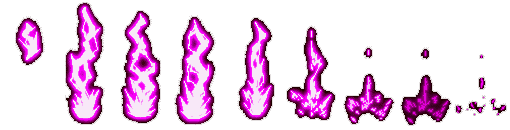
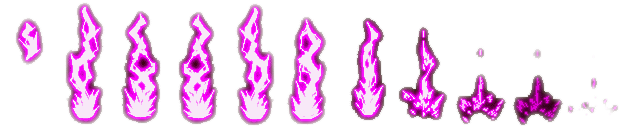
Amélioration du système de tâches de sang et ajout de tâches pour les dommages reçu par le joueur

diff --git a/js/Tache.js b/js/Tache.js
@@ -17,22 +17,39 @@ function Tache(parentObj)
 	/**
 	 * Fonction qui ajoute une tache dans la liste
 	 **/
-	this.add = function(x, y) {
+	this.add = function(target) {
 
-		var spriteNames = ['img/blood', 'img/blood2'],
-			chosenSprite = spriteNames.pickup(),
+		var spriteNames = [];
+
+		if(target instanceof Player) {
+			spriteNames = ['img/blood-player', 'img/blood-player2'];
+		} else {
+			spriteNames = ['img/blood', 'img/blood2'];
+		}
+
+		var chosenSprite = spriteNames.pickup(),
 			conf = TacheConf[chosenSprite],
 			sprite;
 
 		sprite = IM.getInstance(chosenSprite);
 		sprite.animation = new IIG.Animation(conf.animation);
 
+		var x = target.x;
+		var y = target.y;
+		if(chosenSprite === 'img/blood2') {
+			x -= sprite.animation.sWidth/2;
+			y -= sprite.animation.sHeight/2;
+		} else if(target instanceof Player) {
+			x += target.w/2;
+		}
+
 		this.taches.push({
 			sprite : sprite,
 			x : x,
 			y : y,
 			w : conf.width,
-			h : conf.height
+			h : conf.height,
+			tar : target
 		});
 
 	};
@@ -44,6 +61,11 @@ function Tache(parentObj)
 
 		for (var i = 0, c = this.taches.length; i < c; i++) {
 			var t = this.taches[i];
+
+			if(typeof t.tar !== "undefined" && t.tar instanceof Player) {
+				t.x = t.tar.x + t.tar.w /2;
+				t.y = t.tar.y;
+			}
 
 			if (t.sprite.animation.sx >= t.sprite.width - t.sprite.animation.sWidth)
 				if (this.kill( i ))

diff --git a/js/Player.js b/js/Player.js
@@ -146,9 +146,13 @@ function Player(parentObj)
 	this.damage = function() {
 		if(--this.life <= 0) {
 			// Remplacement du sprite player par le sprite player_killed
-			this.sprite = this.parentObj.sprites['img/player_dead'];
+			// this.sprite = this.parentObj.sprites['img/player_dead'];
 			// Let's kill it, he deserved to be !
-			this.kill();
+			// this.kill();
+		}
+		else {
+			// Ajout d'une tâche de sang à l'endroit de la collision (pke c gorre, mdrrr)
+			this.parentObj.MTache.add(this);
 		}
 		this.display();
 	};

diff --git a/js/Projectile.js b/js/Projectile.js
@@ -71,7 +71,7 @@ function Projectile(parentObj)
 					sy : 0,
 					sWidth : 57,
 					sHeight : 130,
-					animByFrame : 9,
+					animByFrame : 5,
 					alternate : false
 				});
 				break;
@@ -136,7 +136,7 @@ function Projectile(parentObj)
 				if (collide(pTemp, e)) {
 
 					// Ajout d'une tâche de sang à l'endroit de la collision (pke c gorre, mdrrr)
-					this.parentObj.MTache.add(e.x, e.y);
+					this.parentObj.MTache.add(e);
 
 					if(p.category !== "toTarget") {
 						if (this.kill( i )) --c;

diff --git a/index.html b/index.html
@@ -149,7 +149,7 @@
 		//	powerup.play();
 		//	heartSlow.play();
 		//	heartFast.play();
-			theme.play();
+			// theme.play();
 		//	title.play();
 		//	heartShock.play();
 		//	heartFade.play();
@@ -199,6 +199,8 @@
         IM.add('img/lightning.png');
         IM.add('img/blood.png');
         IM.add('img/blood2.png');
+        IM.add('img/blood-player.png');
+        IM.add('img/blood-player2.png');
         IM.add('img/jewel.png');
 
 		currentGameObject = game;

diff --git a/conf/Tache.cfg.js b/conf/Tache.cfg.js
@@ -21,5 +21,27 @@ var TacheConf = {
 		},
 		width : 122,
 		height : 109
+	},
+	'img/blood-player' : {
+		animation : {
+			sx : 0,
+			sy : 0,
+			sWidth : 46,
+			sHeight : 50,
+			animByFrame : 4
+		},
+		width : 46,
+		height : 50
+	},
+	'img/blood-player2' : {
+		animation : {
+			sx : 0,
+			sy : 0,
+			sWidth : 40,
+			sHeight : 50,
+			animByFrame : 4
+		},
+		width : 40,
+		height : 50
 	}
 };
